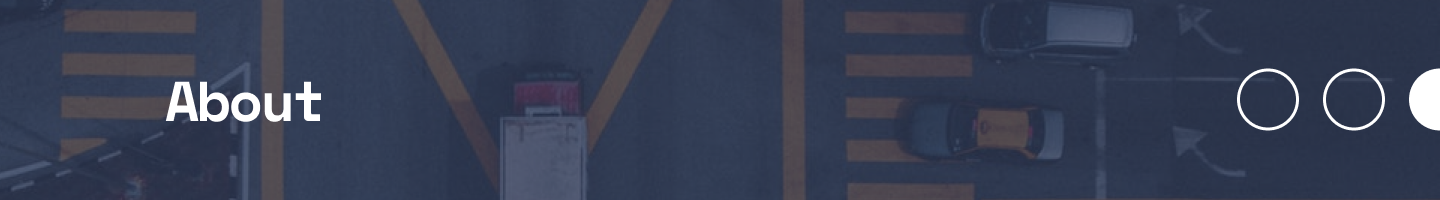
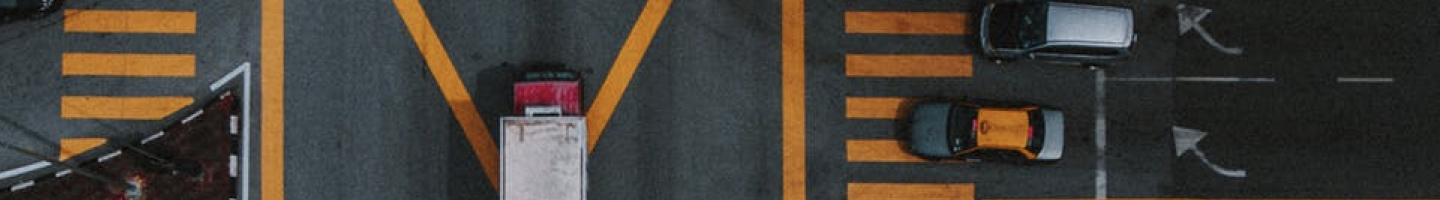
Bugfixes
Is ready for further development

diff --git a/css/home/desktop.css b/css/home/desktop.css
@@ -154,11 +154,6 @@ img {
   display: grid;
 }
 
-.header {
-  grid-column: 2;
-  height: 96px;
-}
-
 body h1 {
   font-family: space mono, bold, sans-serif;
   font-size: 56px;
@@ -300,11 +295,28 @@ body .btn .btn__text {
   .img {
     grid-area: 2/1/2/4;
     height: 650px;
+    display: grid;
+    grid-template-columns: 1fr;
+    grid-template-rows: 1fr;
+    margin-bottom: 160px;
+  }
+  .img .mask {
+    grid-column: 1;
+    grid-row: 1;
+    height: 650px;
+    width: 100%;
+    background-color: #2F3B59;
+    opacity: 0.75;
+    z-index: 1;
+    overflow: hidden;
   }
   .img img {
-    height: 100%;
+    grid-column: 1;
+    grid-row: 1;
+    height: 650px;
     width: 100%;
     object-fit: cover;
+    z-index: 0;
   }
   .home {
     grid-column: 2;
@@ -318,6 +330,7 @@ body .btn .btn__text {
     align-items: center;
     overflow: hidden;
     color: rgb(242, 245, 249);
+    z-index: 2;
   }
   .home h1 {
     grid-area: 1/2/1/8;

diff --git a/careers.html b/careers.html
@@ -4,8 +4,12 @@
     <meta charset="UTF-8">
     <title>Careers</title>
     <link href="./css/careers/desktop.css" rel="stylesheet">
+    <script defer src="js/includes.js"></script>
 </head>
 <body>
+<section class="header">
+    <div id="header"></div>
+</section>
 <section class="headContainer">
     <div class="mask"></div>
     <img alt="" src="./images/careers/banner.png">
@@ -118,6 +122,9 @@
             </a>
         </div>
     </div>
+</section>
+<section class="footer">
+    <div id="footer"></div>
 </section>
 
 

diff --git a/css/home/desktop.sass b/css/home/desktop.sass
@@ -91,7 +91,7 @@
     grid-row: 3
 
     display: grid
-    grid-template-columns: 1fr 1110px 1fr
+    grid-template-columns: $grid__desktop
 
     .stepsGrid
       position: relative
@@ -161,7 +161,7 @@
     grid-row: 4
 
     display: grid
-    grid-template-columns: 1fr 1110px 1fr
+    grid-template-columns: $grid__desktop
 
     .contentGrid
       grid-column: 2

diff --git a/css/careers/desktop.css b/css/careers/desktop.css
@@ -179,7 +179,6 @@ body h4 {
   font-size: 24px;
   line-height: 28px;
   letter-spacing: -1.07px;
-  color: rgb(73, 85, 103);
 }
 body p {
   font-family: lexend Deca, regular, sans-serif;

diff --git a/css/locations/desktop.css b/css/locations/desktop.css
@@ -179,7 +179,6 @@ body h4 {
   font-size: 24px;
   line-height: 28px;
   letter-spacing: -1.07px;
-  color: rgb(73, 85, 103);
 }
 body p {
   font-family: lexend Deca, regular, sans-serif;
